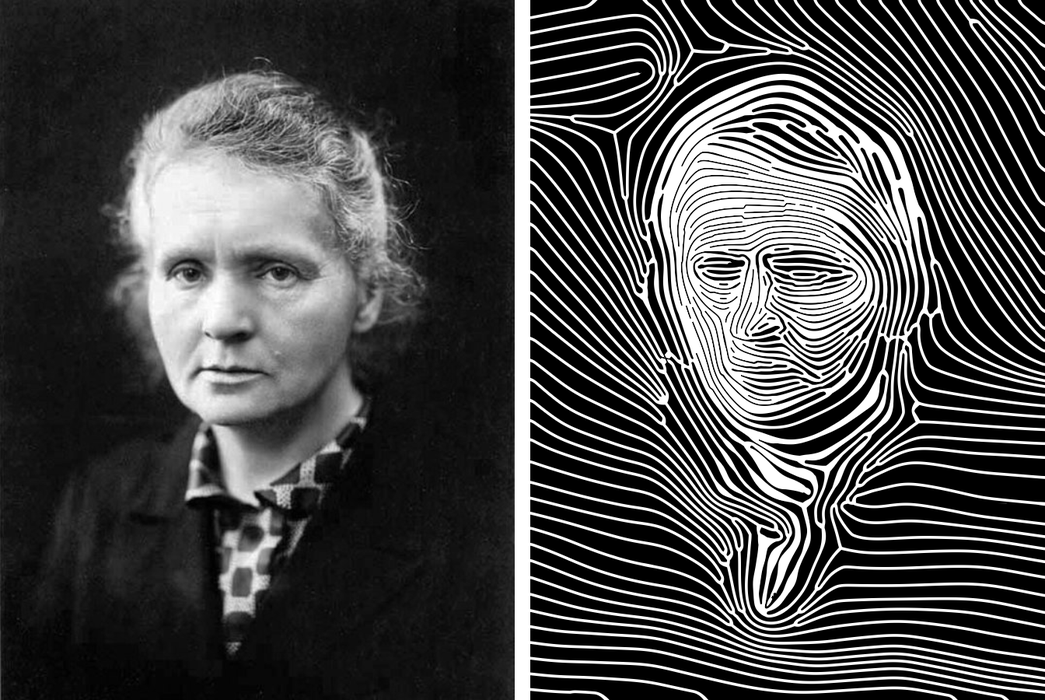
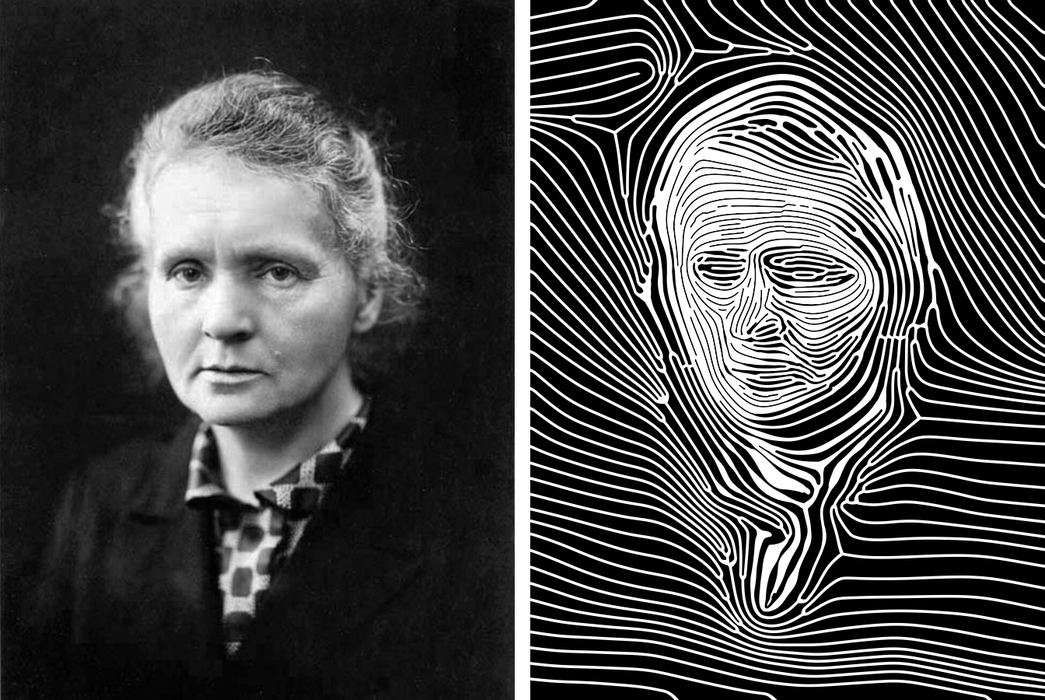
Retratos: contraste local en la cara, raya del iris y más líneas junto a los rasgos
El grosor en la cara usa contraste local (rasgos más oscuros, piel entre ellos más clara), cada
ojo lleva una raya por el iris y junto a los rasgos lo oscuro ya no separa las líneas.

Changed region(s): [[0.49, 0.0, 1.0, 1.0]]

diff --git a/src/flujo.rs b/src/flujo.rs
@@ -239,6 +239,24 @@ pub fn flujo(ancho: f32, alto: f32, periodo: f32, semilla: u64, tono: Option<&To
         None => Rejilla { w: 1, h: 1, paso: g, v: vec![0.0] },
     };
     let region_en = |x: f32, y: f32| region.cercano(x, y) as u32;
+    // En la cara, contraste local (tono − tono suavizado a ≈ 1,5 periodos): lo oscuro de cada rasgo
+    // engorda y la piel entre rasgos adelgaza, así ojos, cejas, nariz y boca quedan separados.
+    let k_contraste: f32 = std::env::var("DEDALO_CONTRASTE").ok().and_then(|v| v.parse().ok()).unwrap_or(1.2);
+    let contraste = cara.filter(|_| k_contraste > 0.0).map(|_| {
+        let mut en_cara = Rejilla::new(ancho, alto, g, |x, y| (region.cercano(x, y) as u32 == 1) as u8 as f32);
+        en_cara.suavizar(2);
+        let mut fondo_t = Rejilla { w: tonos.w, h: tonos.h, paso: g, v: tonos.v.clone() };
+        fondo_t.suavizar(3);
+        fondo_t.suavizar(3);
+        (en_cara, fondo_t)
+    });
+    let tinta = |x: f32, y: f32| -> f32 {
+        let t = tono_en(x, y);
+        match &contraste {
+            Some((c, f)) => (t + k_contraste * c.muestra(x, y) * (t - f.muestra(x, y))).clamp(0.0, 1.0),
+            None => t,
+        }
+    };
     let k_detalle = if cara.is_some() { 0.7 } else { 1.0 };
     // Rostro: unas `LINEAS_CARA` líneas a lo ancho de la cara (y algo menos en el pelo), sea cual
     // sea la separación general: con 4 mm en una cara de 6 cm solo cabían 12 y los rasgos se perdían.
@@ -252,7 +270,9 @@ pub fn flujo(ancho: f32, alto: f32, periodo: f32, semilla: u64, tono: Option<&To
     denso.suavizar(2);
     denso.suavizar(2);
     let (s_max, s_min) = (k_claro.max(k_oscuro) * periodo, k_claro.min(k_oscuro) * periodo * k_detalle * k_cara);
-    let sep = |x: f32, y: f32| (k_claro * periodo + (k_oscuro - k_claro) * periodo * tonos.muestra(x, y)) * (1.0 - (1.0 - k_detalle) * detalle.muestra(x, y) * (1.0 - tonos.muestra(x, y))) * denso.muestra(x, y);
+    // Junto a los rasgos lo oscuro no separa las líneas (si no, un ojo oscuro se queda con dos líneas).
+    let k_rasgo: f32 = std::env::var("DEDALO_RASGO").ok().and_then(|v| v.parse().ok()).unwrap_or(0.8);
+    let sep = |x: f32, y: f32| (k_claro * periodo + (k_oscuro - k_claro) * periodo * tonos.muestra(x, y) * (1.0 - k_rasgo * detalle.muestra(x, y))) * (1.0 - (1.0 - k_detalle) * detalle.muestra(x, y) * (1.0 - tonos.muestra(x, y))) * denso.muestra(x, y);
     // (solo en lo claro: en lo oscuro, juntar las líneas deja sin sitio la tinta por el canal mínimo).
 
     // Zonas: bandas de tono muy suavizado (y, en un retrato, cara / pelo / resto).
@@ -625,7 +645,7 @@ pub fn flujo(ancho: f32, alto: f32, periodo: f32, semilla: u64, tono: Option<&To
                     let hueco = d1 + d2;
                     // Tono fino (no la rejilla gruesa): el grosor cambia a lo largo de la
                     // línea con el detalle de la imagen, como en el grabado.
-                    let t = tono_en(x, y);
+                    let t = tinta(x, y);
                     let medio = (t * hueco / 2.0).max(op.muro_min / 2.0);
                     let tope = ((hueco - op.canal_min) / 2.0).max(op.muro_min / 2.0).min(op.grosor_max / 2.0);
                     bloque[fj * cw + i] = d1 - medio.min(tope);

diff --git a/src/rostro.rs b/src/rostro.rs
@@ -59,8 +59,8 @@ pub mod indices {
     /// Base de la nariz (aletas y columela).
     pub const BASE_NARIZ: &[usize] = &[98, 97, 2, 326, 327];
     /// Lados de la nariz: del lagrimal por el borde del caballete hasta rodear la aleta.
-    pub const LADO_NARIZ_I: &[usize] = &[193, 245, 188, 174, 236, 198, 209, 129, 64, 98];
-    pub const LADO_NARIZ_D: &[usize] = &[417, 465, 412, 399, 456, 420, 429, 358, 294, 327];
+    pub const LADO_NARIZ_I: &[usize] = &[188, 174, 236, 198, 209, 129, 64, 98];
+    pub const LADO_NARIZ_D: &[usize] = &[412, 399, 456, 420, 429, 358, 294, 327];
 }
 
 impl Rostro {
@@ -256,12 +256,20 @@ impl Cara {
         let mut trazos = vec![centro_ceja(CEJA_I), centro_ceja(CEJA_D), curva(BOCA), curva(BASE_NARIZ), lado_i, lado_d];
         trazos.extend(parpados(OJO_I));
         trazos.extend(parpados(OJO_D));
+        let ojos = [ojo(OJO_I, (33, 133), (159, 145)), ojo(OJO_D, (362, 263), (386, 374))];
+        // Iris: una raya corta por el centro del ojo, a lo largo; el tono oscuro la vuelve un punto grueso.
+        if std::env::var("DEDALO_PUPILA").map_or(true, |v| v != "0") {
+            for o in &ojos {
+                let (s, c) = o.ang.sin_cos();
+                trazos.push(vec![(o.c.0 - o.a * c, o.c.1 - o.a * s), (o.c.0 + o.a * c, o.c.1 + o.a * s)]);
+            }
+        }
         let mut rasgos = guias.clone();
         rasgos.push(cerrada(OJO_I));
         rasgos.push(cerrada(OJO_D));
         Cara {
             ovalo,
-            ojos: [ojo(OJO_I, (33, 133), (159, 145)), ojo(OJO_D, (362, 263), (386, 374))],
+            ojos,
             guias,
             trazos,
             rasgos,
